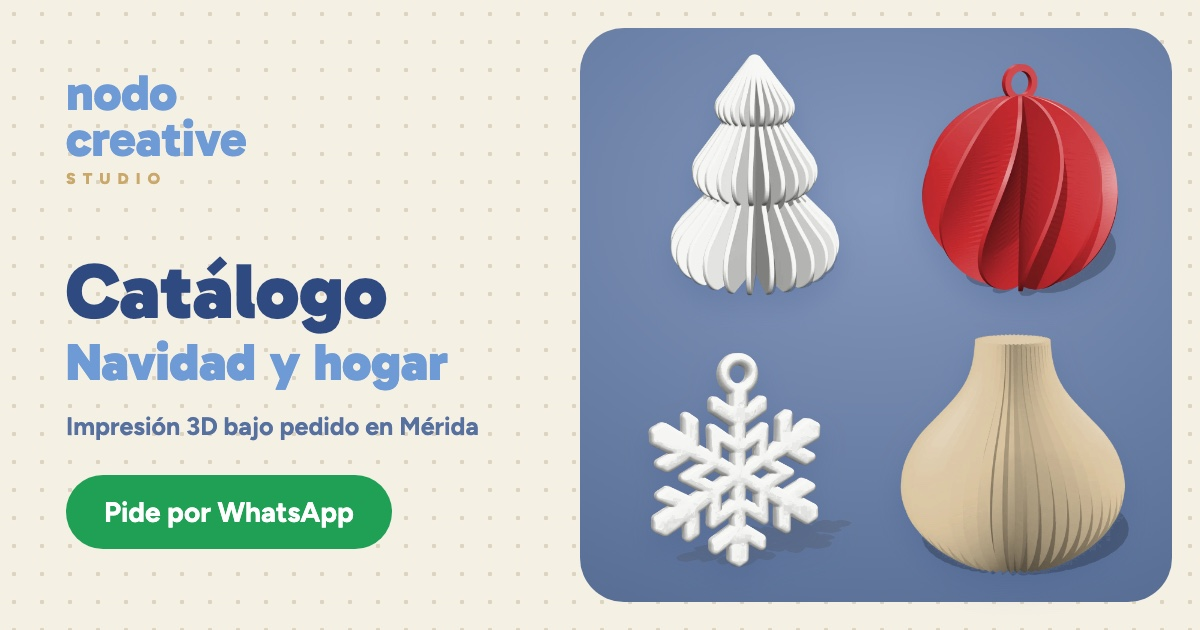
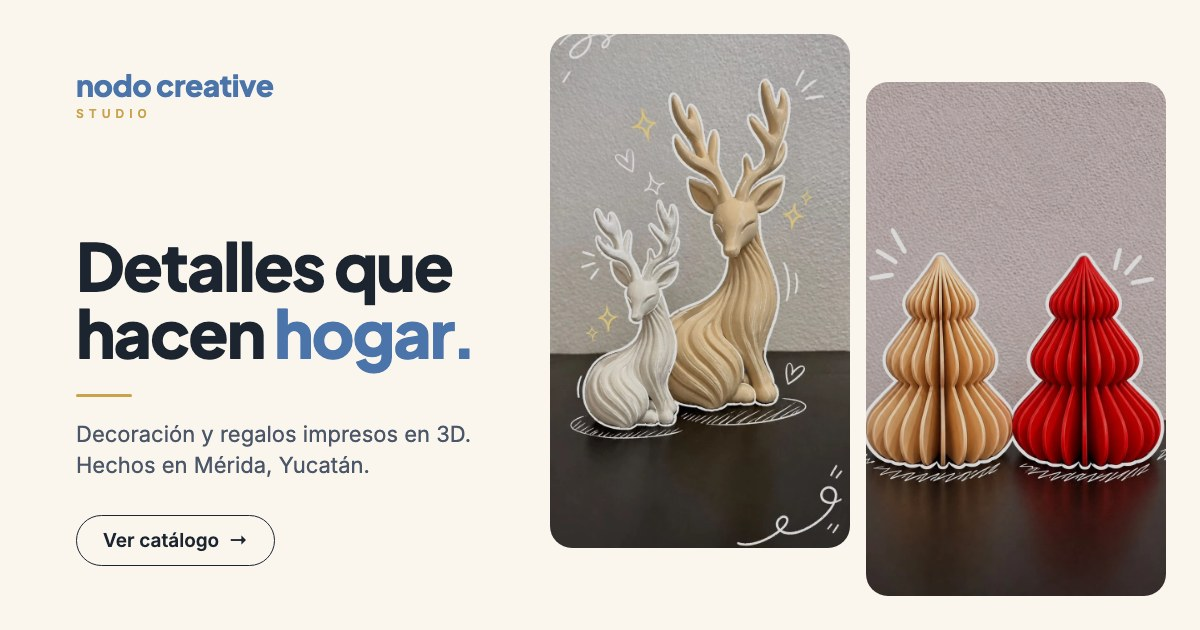
Fotos con contorno en venados y pinos, quita fotos equivocadas, nueva imagen para compartir

diff --git a/index.html b/index.html
@@ -572,7 +572,7 @@ const CONTACTO={whatsapp:'529992565297',instagram:'https://www.instagram.com/nod
 const waLink=t=>'https://wa.me/'+CONTACTO.whatsapp+'?text='+encodeURIComponent(t);
 // h: medida que se usa para comparar tamaños dentro del mismo producto (cm)
 const P=[
- {id:'pino',col:'Blanco',fotos:['img/pino-real-par.webp','img/pino-real-beige.webp','img/pino-real-rojo.webp'],cat:'navidad',tag:'Navidad',name:'Pino navideño',desc:'Un pino de pliegues suaves que llena de Navidad cualquier repisa o mesa de centro.',
+ {id:'pino',col:'Blanco',fotos:['img/pinos-doodle.webp'],cat:'navidad',tag:'Navidad',name:'Pino navideño',desc:'Un pino de pliegues suaves que llena de Navidad cualquier repisa o mesa de centro.',
   sizes:[{l:'10 cm',img:'img/pino.webp',d:'7.95 × 7.95 × 10.0',h:10,id:'pino10'},{l:'13 cm',img:'img/pino.webp',d:'10.3 × 10.3 × 13.0',h:13,id:'pino13'},{l:'16 cm',img:'img/pino.webp',d:'12.7 × 12.7 × 16.0',h:16,id:'pino16'}]},
  {id:'copo',col:'Blanco',fotos:['img/ref/04-copo-de-nieve.webp'],cat:'navidad',tag:'Navidad',name:'Copo de nieve',desc:'Copo de nieve para colgar en tu árbol, con su aro listo para el gancho.',
   sizes:[{l:'Mediano',img:'img/copo.webp',d:'8.3 × 10.0 × 0.7',dl:'Ancho × alto × grosor (cm)',h:10,id:'copo_md'},{l:'Grande',img:'img/copo.webp',d:'12.4 × 15.0 × 1.1',dl:'Ancho × alto × grosor (cm)',h:15,id:'copo_gr'}]},
@@ -594,9 +594,9 @@ const P=[
   sizes:[{l:'Chica',img:'img/estrella.webp',d:'11.7 × 12.5 × 0.3',dl:'Ancho × alto × grosor (cm)',h:12.5,id:'est_ch'},{l:'Mediana',img:'img/estrella.webp',d:'15.0 × 16.0 × 0.4',dl:'Ancho × alto × grosor (cm)',h:16,id:'est_md'},{l:'Grande',img:'img/estrella.webp',d:'18.8 × 20.0 × 0.5',dl:'Ancho × alto × grosor (cm)',h:20,id:'est_gr'}]},
  {id:'reno',col:'Blanco',fotos:['img/ref/01-reno-navideno.webp'],cat:'navidad',tag:'Navidad',name:'Reno navideño',desc:'Reno de cuerpo acanalado que se roba las miradas en repisas y centros de mesa.',
   sizes:[{l:'Único',img:'img/reno.webp',d:'4.7 × 4.6 × 13.5',id:'reno'}]},
- {id:'venado',tint:false,fotos:['img/venado-pareja.webp','img/venado-grupo.webp','img/venado-lado.webp'],cat:'navidad',tag:'Nuevo',name:'Venado Japandi',desc:'Venado sentado de estilo nórdico, con el pelaje en ondas suaves. Precioso solo o en pareja, en repisas y centros de mesa.',
+ {id:'venado',tint:false,fotos:['img/venado-pareja-doodle.webp','img/venados-doodle.webp'],cat:'navidad',tag:'Nuevo',name:'Venado Japandi',desc:'Venado sentado de estilo nórdico, con el pelaje en ondas suaves. Precioso solo o en pareja, en repisas y centros de mesa.',
   sizes:[{l:'10 cm',img:'img/venado-10.webp',d:'4.4 × 3.5 × 10.0',id:'ven10'},{l:'15 cm',img:'img/venado-15.webp',d:'6.6 × 5.2 × 15.0',id:'ven15'},{l:'20 cm',img:'img/venado-15.webp',d:'8.8 × 7.0 × 20.0',id:'ven20'}]},
- {id:'origami',col:'Blanco',fotos:['img/ref/02-arbol-navideno-calado.webp','img/ref/06-figuras-navidenas.webp'],cat:'navidad',tag:'Navidad',name:'Árbol de origami',desc:'Pino de pliegues geométricos con caladitos que dejan pasar la luz.',
+ {id:'origami',col:'Blanco',fotos:['img/ref/02-arbol-navideno-calado.webp'],cat:'navidad',tag:'Navidad',name:'Árbol de origami',desc:'Pino de pliegues geométricos con caladitos que dejan pasar la luz.',
   sizes:[{l:'Único',img:'img/origami.webp',d:'9.2 × 9.2 × 12.0',id:'origami'}]},
  {id:'cascanueces',col:'Rojo',cat:'navidad',tag:'Navidad',name:'Cascanueces',desc:'El clásico soldadito cascanueces, para un toque tradicional en tu decoración. Te lo entregamos armado.',
   sizes:[{l:'Liso',img:'img/cascanueces-liso.webp',d:'Cuerpo: 4.3 × 4.4 × 12.2',id:'casc_liso'},{l:'Acanalado',img:'img/cascanueces-acanalado.webp',d:'Cuerpo: 4.3 × 4.5 × 12.2',id:'casc_acan'}]},
@@ -604,7 +604,7 @@ const P=[
   sizes:[{l:'Chico',img:'img/jarron-chico.webp',d:'12.2 × 12.2 × 12.0',h:12,id:'jar_ch'},{l:'Mediano',img:'img/jarron-mediano.webp',d:'15.2 × 15.2 × 15.0',h:15,id:'jar_md'},{l:'Grande',img:'img/jarron-grande.webp',d:'18.3 × 18.3 × 18.0',h:18,id:'jar_gr'}]},
  {id:'home',tint:false,fotos:['img/home-jarron.webp','img/home-lado.webp'],cat:'hogar',tag:'Nuevo',name:'Set decorativo HOME',desc:'Seis piezas acanaladas que combinan entre sí: charola, jarrón, dos arcos, letras HOME, reno y portavela. Listo para lucir en tu mesa de centro, repisa o recibidor.',
   sizes:[{l:'Juego de 6 piezas',img:'img/home-frente.webp',d:'charola de 22 cm y arco grande de 16 cm de alto',dl:'Medidas',u:'juego',id:'set_home'}]},
- {id:'organizador',col:'Negro',fotos:['img/ref/12-clips.webp'],cat:'hogar',tag:'Hogar',name:'Organizador de cables',desc:'Enrolla los cables del cargador y los audífonos. Adiós a los nudos en la bolsa.',
+ {id:'organizador',col:'Negro',fotos:[],cat:'hogar',tag:'Hogar',name:'Organizador de cables',desc:'Enrolla los cables del cargador y los audífonos. Adiós a los nudos en la bolsa.',
   sizes:[{l:'Chico',img:'img/org-chico.webp',d:'3.7 × 1.5 × 1.4',dl:'Largo × ancho × alto (cm)',h:3.7,hl:'largo',id:'org_ch'},{l:'Mediano',img:'img/org-mediano.webp',d:'3.7 × 1.9 × 1.4',dl:'Largo × ancho × alto (cm)',h:3.7,hl:'largo',id:'org_md'},{l:'XL',img:'img/org-xl.webp',d:'4.3 × 2.3 × 1.4',dl:'Largo × ancho × alto (cm)',h:4.3,hl:'largo',id:'org_xl'}]},
  {id:'clips',col:'Azul',cat:'hogar',tag:'Hogar',name:'Clips para bolsas',desc:'Para cerrar bolsas de café, botanas y cereal. Por juego de 6 o sueltos.',
   sizes:[{l:'Juego de 6',img:'img/clips6.webp',d:'1.4 × 3.5 × 1.0 cada clip',dl:'Ancho × largo × alto (cm)',id:'clips',u:'juego'},{l:'Suelto',img:'img/clips.webp',d:'1.4 × 3.5 × 1.0',dl:'Ancho × largo × alto (cm)',id:'clip1'}]},

diff --git a/referencias.js b/referencias.js
@@ -1,2 +1,2 @@
 // Fotos de referencia (generado con construir_sitio.py)
-window.REFERENCIAS = [{"src": "img/ref/01-reno-navideno.webp", "t": "Reno navideño decorativo"}, {"src": "img/ref/02-arbol-navideno-calado.webp", "t": "Árbol navideño calado"}, {"src": "img/ref/04-copo-de-nieve.webp", "t": "Esfera copo de nieve"}, {"src": "img/ref/05-llavero-copo-de-nieve.webp", "t": "Llavero copo de nieve"}, {"src": "img/ref/06-figuras-navidenas.webp", "t": "Figuras navideñas: duende y pino"}, {"src": "img/ref/07-llavero-perrito.webp", "t": "Llavero perrito bicolor"}, {"src": "img/ref/08-base-cargador-reloj.webp", "t": "Base para cargador de reloj"}, {"src": "img/ref/09-base-cargador-reloj-2.webp", "t": "Base para cargador de reloj"}, {"src": "img/ref/10-porta-rollo-de-cocina.webp", "t": "Torre para papel XL"}, {"src": "img/ref/11-organizador-de-pared.webp", "t": "Torre para papel XL, sin rollo"}, {"src": "img/ref/12-clips.webp", "t": "Ganchos tipo S"}, {"src": "img/ref/13-cubos-bicolor.webp", "t": "Cubos bicolor"}, {"src": "img/ref/14-llaveros-hueso-con-nombre.webp", "t": "Llaveros de hueso con nombre, en dos colores"}, {"src": "img/ref/15-llaveros-hueso-blancos.webp", "t": "Llaveros de hueso con nombre"}, {"src": "img/ref/16-soporte-rollo-cocina.webp", "t": "Soporte para rollo de cocina"}, {"src": "img/ref/17-soporte-rollo-cocina-frente.webp", "t": "Soporte para rollo de cocina, de frente"}, {"src": "img/ref/18-soporte-rollo-en-impresora.webp", "t": "Soporte para rollo de cocina recién impreso"}, {"src": "img/ref/19-gancho-para-carro.webp", "t": "Gancho para carro"}, {"src": "img/ref/20-soporte-telefono.webp", "t": "Soporte de teléfono"}, {"src": "img/ref/21-soporte-telefono-frente.webp", "t": "Soporte de teléfono, de frente"}, {"src": "img/ref/22-soporte-telefono-en-impresora.webp", "t": "Soporte de teléfono recién impreso"}, {"src": "img/ref/23-nacimiento.webp", "t": "Nacimiento de 9 piezas"}];
+window.REFERENCIAS = [{"src": "img/ref/01-reno-navideno.webp", "t": "Reno navideño decorativo"}, {"src": "img/ref/02-arbol-navideno-calado.webp", "t": "Árbol navideño calado"}, {"src": "img/ref/04-copo-de-nieve.webp", "t": "Esfera copo de nieve"}, {"src": "img/ref/05-llavero-copo-de-nieve.webp", "t": "Llavero copo de nieve"}, {"src": "img/ref/06-figuras-navidenas.webp", "t": "Cortadores de galletas navideños"}, {"src": "img/ref/07-llavero-perrito.webp", "t": "Llavero perrito bicolor"}, {"src": "img/ref/08-base-cargador-reloj.webp", "t": "Base para cargador de reloj"}, {"src": "img/ref/09-base-cargador-reloj-2.webp", "t": "Base para cargador de reloj"}, {"src": "img/ref/10-porta-rollo-de-cocina.webp", "t": "Torre para papel XL"}, {"src": "img/ref/11-organizador-de-pared.webp", "t": "Torre para papel XL, sin rollo"}, {"src": "img/ref/12-clips.webp", "t": "Ganchos tipo S"}, {"src": "img/ref/13-cubos-bicolor.webp", "t": "Cubos bicolor"}, {"src": "img/ref/14-llaveros-hueso-con-nombre.webp", "t": "Llaveros de hueso con nombre, en dos colores"}, {"src": "img/ref/15-llaveros-hueso-blancos.webp", "t": "Llaveros de hueso con nombre"}, {"src": "img/ref/16-soporte-rollo-cocina.webp", "t": "Soporte para rollo de cocina"}, {"src": "img/ref/17-soporte-rollo-cocina-frente.webp", "t": "Soporte para rollo de cocina, de frente"}, {"src": "img/ref/18-soporte-rollo-en-impresora.webp", "t": "Soporte para rollo de cocina recién impreso"}, {"src": "img/ref/19-gancho-para-carro.webp", "t": "Gancho para carro"}, {"src": "img/ref/20-soporte-telefono.webp", "t": "Soporte de teléfono"}, {"src": "img/ref/21-soporte-telefono-frente.webp", "t": "Soporte de teléfono, de frente"}, {"src": "img/ref/22-soporte-telefono-en-impresora.webp", "t": "Soporte de teléfono recién impreso"}, {"src": "img/ref/23-nacimiento.webp", "t": "Nacimiento de 9 piezas"}];
